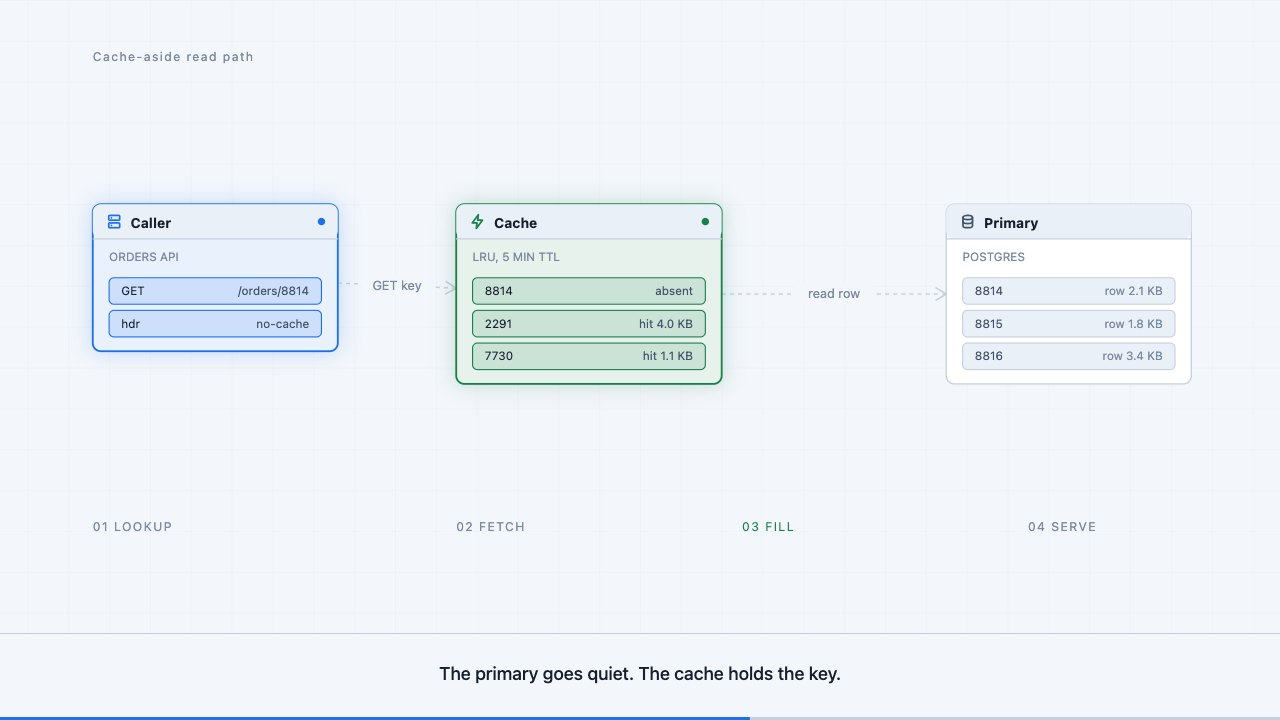
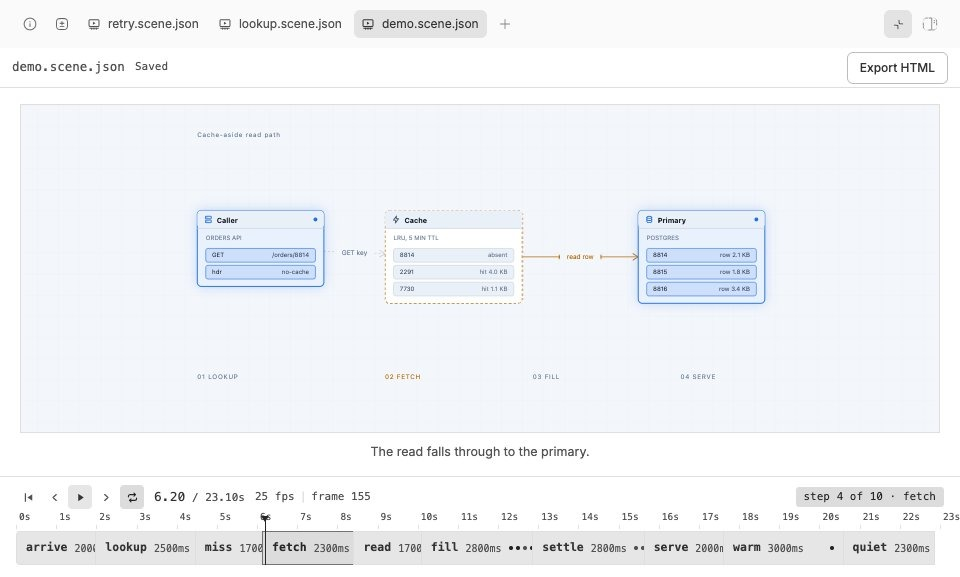
docs: align repository with plugin standard

diff --git a/skills/animation/SKILL.md b/skills/animation/SKILL.md
@@ -28,19 +28,19 @@ BB surfaces:
 Follow these nine steps in order. They produce a good animation without any design judgement, and the validator in step 9 catches what you cannot see.
 
 1. **Write the story as 6 to 10 captions.** One sentence each, 10 words or fewer (12 is the limit). Read together, they explain the thing to someone who has never seen it. Captions are shown under the stage as narration, so they are the script. **If the user asked for a length, write one caption per 2.5 seconds**: 12 captions for 30 seconds.
-2. **Leave `"look"` out of your first draft.** The look is the scene's whole character: palette, type, corners, backdrop. The validator assigns one to each scene in step 9, so that different scenes look different. Set exactly the one it names. Only choose a look yourself when the user asks for one by name, and never write colours.
+2. **Leave `"look"` out of your first draft.** The look is the scene's whole character: palette, type, corners, backdrop. In step 9, the validator suggests one from the scene's title; it does not edit the file. Set exactly the one it names. Only choose a look yourself when the user asks for one by name, and never write colours.
 3. **Pick 3 to 6 boxes.** One `node` per thing in the story. More than 6 means the story is two animations.
    - Give every box an `"icon"` from the list below.
    - A person or a device is an **actor**: add `"variant": "actor"`, which draws a circle with the icon and the name under it. An actor has no `rows` and no `subtitle`.
    - Give each other box one or two rows of **fixed facts**: a name, a limit, a setting. Never a status such as `pending`, `verified` or `done`: text cannot change between steps, so a status is wrong for most of the run. Show change with states, not with text.
 4. **Choose the layout from the shape of the story**, using the table below, and copy its coordinates. A chain is a row. One thing in the middle talking to several is a hub. A loop is a ring. Do not put everything in a row by habit.
-5. **Hide what arrives later.** Every box the first caption does not need gets `"state": "hidden"`. Reveal it with `"state": "idle"` or `"active"` in the step whose caption introduces it. Hidden parts rise into place when shown. Edges need no hiding: an edge appears in the step that first lights it, and stays afterwards as a trace of the conversation.
+5. **Hide what arrives later.** Every box the first caption does not need gets `"state": "hidden"`. Reveal it with `"state": "idle"` or `"active"` in the step whose caption introduces it. Hidden parts arrive in the selected look's style. Edges need no hiding: an edge appears in the step that first lights it, and stays afterwards as a trace of the conversation.
 6. **Write one step per caption.** Light the one or two parts the caption is about, and **set an edge `"flowing"` whenever something passes between two boxes**: the moving packets are what make it an animation. When an edge flows into a box, set that box `"active"` in the same step, so the arrival shows. Any two boxes can be joined, not only neighbours. Switch off what the previous step lit: set its edges back to `"idle"`. **Every step must change something the viewer can see**; a step that only changes the caption is dead air, so merge it into its neighbour. Take `duration` from the table below.
 7. **Add `focus`** to steps that are about one or two boxes: `"focus": ["queue", "worker"]`. The stage zooms to them. If the step lights an edge, name the boxes at both ends of it. Leave `focus` off the first step, any step that reveals parts, and the last step.
 8. **End calm.** In the last step every edge is `"idle"`, the box that holds the result stays `"active"`, and there is no `focus`.
 9. **Validate, fix, repeat.** Run `animation_validate` (or `bb animation validate <path>`). If the user asked for a length, pass it as `targetSeconds` (`--seconds` on the CLI). Apply every design note exactly as written, then validate again. **Never delete an edge or a box to clear a note**: that deletes part of the story. Stop when it says `design notes: none`. Then put the `::scene` line it gives you in your reply.
 
-**Looks.** One is assigned to your scene by the validator; set it as `"stage": { ..., "look": "paper" }`.
+**Looks.** The validator suggests one for an unstyled scene; apply it as `"stage": { ..., "look": "paper" }`.
 
 | Look | What it looks like |
 | --- | --- |
@@ -97,7 +97,7 @@ Times are **integer milliseconds**. Never frame indices, never floats.
 {
   "version": 1,
   "stage": { "width": 1200, "height": 640, "fps": 25 },
-  "parts": { "<id>": { "type": "node" | "edge" | "label" | "shape", ... } },
+  "parts": { "<id>": { "type": "node" | "edge" | "label" | "shape" | "html", ... } },
   "steps": [ { "id": "...", "duration": 800, "caption": "...", "set": { ... } } ]
 }
 ```
@@ -107,15 +107,15 @@ Times are **integer milliseconds**. Never frame indices, never floats.
 | Field | Notes |
 | --- | --- |
 | `width`, `height` | Clamped to 16..8192. The stage scales to fit the pane, so these set the aspect ratio and the coordinate system, not the pixel size. |
-| `look` | The scene's visual character, by name (see the looks table in the recipe). Sets the palette, type, corners, backdrop and how parts arrive. Use the one the validator assigns; do not write colours. |
+| `look` | The scene's visual character, by name (see the looks table in the recipe). Sets the palette, type, corners, backdrop and how parts arrive. Use the one the validator suggests; do not write colours. |
 | `fps` | Only affects frame snapping and the readout. Use 25 unless you have a reason. Whole-millisecond frame rates: 10, 20, 25, 50. |
-| `background` | Optional override. Omit it and the stage uses `stage.theme.bg`, or the fixed dark fallback palette when there is no theme -- usually what you want. |
+| `background` | Optional override. Omit it and the stage uses the selected look's background, with `stage.theme.bg` taking precedence. Without a look, it uses the default slate palette. |
 
 1200x640 is a good default. Landscape, room for a header row and a bottom rail.
 
 ### parts
 
-Part ids are the keys. All four types share `label`, `tone`, and `state` (their *baseline*, before any step runs).
+Part ids are the keys. All five types share `label`, `tone`, and `state` (their *baseline*, before any step runs).
 
 **`node`** -- the workhorse. A titled card with an optional subtitle and key/value rows.
 
@@ -198,7 +198,7 @@ Three things about `html` parts that will otherwise cost you a build:
 
 Keys naming a stage token (`bg`, `surface`, `surfaceRaised`, `border`, `borderStrong`, `text`, `textMuted`, `textFaint`, `accent`, `success`, `warning`, `error`, `purple`) override that token. Keys of the form `--some-name` are emitted as extra custom properties, which is how a project carries its own vocabulary into the stage. Anything else is dropped.
 
-Values, not a theme *name*: no renderer then needs a theme registry, and the extension stays neutral about whose product this is. The cost is that editing a theme in the app does not reach existing documents until they are restamped.
+`stage.look` supplies the base style; `stage.theme` stores colour overrides as values. Editing a product theme outside the scene does not update existing documents until their overrides are restamped.
 
 **Write markup against token names, not literal hex.** `var(--scene-border)` rather than `#383838` means switching palettes is a one-field edit with nothing to redraw. Reserve literal colours for things that genuinely are fixed -- macOS traffic lights.
 
@@ -271,7 +271,7 @@ This BB plugin does **not** ship the Nimbalyst `.tsx` compiler. Author `html` or
 
 `neutral` `accent` `data` `success` `warning` `error` `muted`
 
-They map to stage tokens (from `stage.theme`, or the fixed dark fallback): accent is blue, data purple, success green, warning amber, error red, neutral/muted a faint grey. **Assign them semantically and keep the meaning fixed for the whole animation** -- if amber means "under review" in step 4 it cannot mean "slow" in step 7.
+They map to the selected look's stage tokens, with `stage.theme` overriding individual colours. In the default slate look, accent is blue, data purple, success green, warning amber, error red, and neutral/muted a faint grey. Other looks use different palettes. **Assign tones semantically and keep the meaning fixed for the whole animation** -- if `warning` means "under review" in step 4 it cannot mean "slow" in step 7.
 
 ### states
 
@@ -325,12 +325,13 @@ Leave the gap wide enough for what the edge carries: ~40px for a bare edge with 
 The editor rewrites the file on save with a fixed key order. **Hand-write it in canonical order or your first save will reformat the whole file and bury the real edit in the diff.**
 
 - Root: `version`, `stage`, `parts`, `steps`
-- `stage`: `width`, `height`, `fps`, `look`, `background`
+- `stage`: `width`, `height`, `fps`, `look`, `background`, `theme`
 - `parts`: **sorted alphabetically by id**. Within a part: `type`, `label`, `tone`, `state`, then
   - node: `x`, `y`, `w`, `h`, `icon`, `variant`, `subtitle`, `rows`
   - edge: `from`, `to`, `text`, `packets`
   - label: `x`, `y`, `text`, `align`, `caps`, `size`
   - shape: `x`, `y`, `w`, `h`, `shape`, `text`
+  - html: `x`, `y`, `w`, `h`, `component`, `props`, `subParts`, `build`, `htmlFile`, `html`, `vars`
 - `steps`: **document order** -- it is the animation. Within a step: `id`, `duration`, `caption`, `focus`, `set`. `set` keys sorted alphabetically; each assignment `state` then `tone`.
 - Two-space indent, one trailing newline.
 
@@ -341,8 +342,8 @@ Unknown keys are preserved and written after the known ones in sorted order, so 
 Design around these; they are not bugs to work around.
 
 - **No text changes.** No part's `label`, `text`, `subtitle`, or `rows` can differ between steps. A counter that ticks `36 -> 24 -> 12` is impossible. Show quantity with shapes going `hidden`, and write static captions that stay true for the whole run (`"CLAIMED IN ORDER"`, not `"16 REMAINING"`).
-- **Parts do not travel.** `x`/`y` are fixed, so nothing moves from one place to another. The motion you get is built in, and you do not script it: a part rises into place when it stops being `hidden`, parts changed by the same step start a beat apart from left to right, a lit node glows, packets run along a flowing edge, and the camera glides to each step's `focus`.
-- **No font sizes**, apart from one heading: a label with `"size": "title"` is 24px. Other labels are 12px, node titles 13px, rows and subtitles 11px.
+- **Parts do not travel.** `x`/`y` are fixed. Motion is built in: a revealed part arrives in the look's style, changes start in reading order, active nodes use the look's highlighting, packets run along flowing edges, and the camera glides to each step's `focus`.
+- **No per-part font-size fields.** A label with `"size": "title"` gets the look's heading style. Looks set the type sizes for cards and labels; HTML parts can use inline styles.
 - **No z-index.** Alphabetical ids, as above.
 - **No per-step easing or delay.** Timings are fixed: 320ms for a colour change, 460ms for a part to arrive, 720ms for a camera move.
 
@@ -390,7 +391,7 @@ If the user gave you a style reference image, match its *vocabulary* -- caps mic
 
 ## Exporting
 
-`animation_export_html` (or `bb animation export <path>`) writes a `.scene.json` out as a self-contained HTML file that plays and loops on its own, with no external references. Point it at a path; it does not need the file open in an editor.
+`animation_export_html` (or `bb animation export <path>`) writes a `.scene.json` out as a self-contained HTML file that plays and loops on its own. The renderer, styles, playback script and local HTML partials are included; remote HTTPS images named in your markup remain remote. Point it at a path; it does not need the file open in an editor.
 
 ```
 animation_export_html { filePath: "docs/cache.scene.json" }
@@ -401,7 +402,7 @@ Pass `outputPath` to put it somewhere else; a relative path resolves the same wa
 
 **There is no GIF or MP4 export in this BB plugin.** If the destination cannot run HTML, say so and offer the standalone HTML anyway, or a screenshot of one step. Do not pretend a GIF tool exists.
 
-The editor preview and the HTML export use the palette in `stage.theme`, or a fixed dark fallback when the document names none. They agree by construction.
+The editor preview and the HTML export use `stage.look`, with `stage.theme` overriding individual colours. Without a look, they use the default slate style. They share the renderer and stage CSS.
 
 ### Showing it live inside BB
 

diff --git a/README.md b/README.md
@@ -18,11 +18,14 @@ Play it in BB, embed it in chat, or export one HTML page to share.
 
 <br>
 
-<img src="screenshots/animation/retry-fail.jpg" alt="An exported scene in the blueprint look, zoomed to a worker and a store: the write between them fails in red, with the caption 'The write fails, so the job is never acknowledged' under the stage" width="900">
+<img src="screenshots/animation/retry-editor.jpg" alt="BB's Animation editor showing a failed write between a worker and a store in the blueprint look, with narration, playback controls and the step strip below the stage" width="900">
 
 </div>
 
 <br>
+
+> [!NOTE]
+> The screenshots are real BB captures populated with fictional demo data.
 
 ## The problem
 
@@ -60,9 +63,9 @@ boundary to retime it. <kbd>Space</kbd> plays, <kbd>⌘S</kbd> saves, and
 
 ### 🎥 Motion and narration
 
-Parts rise in when revealed, changes sweep left to right, and `focus` zooms
-the stage to the boxes a step is about. Each step's caption shows under the
-stage as narration. None of it is scripted.
+Parts arrive in the selected look's style, changes start in reading order,
+and `focus` zooms the stage to the boxes a step is about. Each step's caption
+shows under the stage as narration. None of it is scripted.
 
 </td>
 </tr>
@@ -101,7 +104,7 @@ the CLI, or an agent tool.
 ### 📄 Plain JSON, agent-ready
 
 Parts plus an ordered list of steps, saved in a fixed key order so diffs stay
-small. The bundled skill gives agents an eight-step recipe, a layout grid and
+small. The bundled skill gives agents a nine-step recipe, layout grids and
 a worked example to copy.
 
 </td>
@@ -167,29 +170,37 @@ flowchart LR
   X --> H["looping .html"]
 ```
 
-- **States, not keyframes.** A step assigns a `state` and a `tone` to parts,
-  and a 320 ms CSS transition interpolates. States are cumulative, so a step
-  only lists what changes.
-- **Motion comes from the renderer.** Showing a hidden part makes it rise into
-  place, parts changed by one step start a beat apart in reading order, and a
-  step's `focus` moves the camera. The file says what is true; it never says
-  how to move.
+- **States drive motion.** Each step changes a part's `state` or `tone`, and
+  CSS transitions interpolate. States are cumulative. Revealed parts arrive
+  in the selected look's style, changes start in reading order, and `focus`
+  moves the camera.
 - **Edges route themselves.** Neighbours get a straight line. An edge that
   skips a box arcs round it, and a request and its reply run in separate
   lanes.
-- **A look is a name, not a palette.** `stage.look` picks the colours, type,
-  corners, backdrop and arrival style together. The validator assigns one to
-  each scene from its title, so scenes made the same way do not look the same.
-- **One parser everywhere.** The editor, CLI, agent tools and export all use
-  the same parser. It repairs near-misses with a warning. Errors block saving
-  and export.
-- **Canonical saves.** The editor writes a fixed key order, so saving an
-  unchanged document gives identical bytes.
-- **Same render inside and outside BB.** Export uses the editor's renderer and
-  stage CSS, with the `stage.theme` palette or a fixed dark fallback.
-- **What it will not do.** It has no GIF or MP4 export, parts cannot travel
-  from one place to another, and text cannot change between steps. There are
-  no font sizes beyond one title style for the heading.
+- **Looks set the style.** `stage.look` picks the colours, type, corners,
+  backdrop and arrival style together. For an unstyled scene, design notes
+  suggest a look from its title. You apply the suggestion to the file;
+  validation never changes it. `stage.theme` can override individual colours.
+- **One parser and stable saves.** The editor, CLI, agent tools and export
+  share a parser. It repairs near-misses with a warning; errors block saving
+  and export. Saves use a fixed key order so unchanged content keeps the same
+  bytes.
+- **Same render inside and outside BB.** Export uses the editor's renderer,
+  stage CSS and selected look. Individual theme colours override the look;
+  scenes without a look use the default slate style.
+
+<details>
+<summary><b>Compatibility and limits</b></summary>
+
+Existing `.anim.json` files, `::animation` embeds and Nimbalyst `anim-*` /
+`--anim-*` tokens still work. New files use `.scene.json`, `::scene` and
+`--scene-*`.
+
+HTML is the shareable output; GIF and MP4 export are unavailable. Parts keep
+their positions and text between steps. The format offers named looks and a
+title style rather than individual font-size controls.
+
+</details>
 
 ## Safe by default
 
@@ -206,9 +217,9 @@ flowchart LR
   `htmlFile` must be relative and stay inside the workspace. Outside a
   workspace, the limit is the directory the CLI ran in, or the scene's own
   folder.
-- 🌐 **No network calls.** The plugin reads and writes files through BB and
-  nothing else. An exported page loads remote content only if your own markup
-  names an `https:` image.
+- 🌐 **No service connection required.** The plugin reads and writes files
+  through BB. Your own HTML parts can load remote `https:` images, including
+  images named in inline styles.
 - 📝 **Export only replaces its own output.** Exporting again overwrites an
   earlier Animation export. Any other file at the output path, including the
   scene itself, is left alone and the export stops with an error.
@@ -218,6 +229,7 @@ flowchart LR
 ```sh
 bb animation new docs/cache-read.scene.json         # create a starter scene
 bb animation validate docs/cache-read.scene.json    # problems, plus design notes with fixes
+bb animation validate docs/cache-read.scene.json --seconds 30
 bb animation export docs/cache-read.scene.json      # write docs/cache-read.html
 bb animation export docs/cache-read.scene.json --out site/cache.html --json
 ```
@@ -236,11 +248,13 @@ workspace when there is no current directory.
 
 </details>
 
-**Agent tools:** `animation_validate({ filePath })` and
+**Agent tools:** `animation_validate({ filePath, targetSeconds? })` and
 `animation_export_html({ filePath, outputPath? })`. The bundled
 [skill](skills/animation/SKILL.md) teaches agents the part types, states,
 geometry and canonical key order, and when a static diagram is the better
-choice.
+choice. When you ask for a length, agents pass it as `targetSeconds` (a
+positive number up to 600) and apply the validator's design notes before
+embedding the scene.
 
 ## Development
 
@@ -268,11 +282,18 @@ screenshots/     README images
 ```
 
 **Tests** are Vitest unit tests for the parser, serialiser and timeline, the
-scene renderer, the camera and every design note, the HTML sanitiser and the
-host path helpers. They also check that the shipped samples, the starter and
-the skill's worked example pass the validator with no notes. A fake plugin host
+scene renderer, looks, icons, actor geometry, edge routing, the camera and
+design notes, the HTML sanitiser and host path helpers. They also check that
+the shipped samples, the starter and the skill's worked example pass the
+validator with no notes. A fake plugin host
 also drives the CLI and agent tools end to end: create, validate, export,
 refusing parse errors, and `.anim.json` files.
+
+For README screenshots, open the shipped samples in BB and crop to the file
+preview pane. The hero shows the `fail` step in `samples/retry.scene.json`;
+the gallery shows the paper hub in `samples/lookup.scene.json` and the
+daylight row in `samples/demo.scene.json`. Keep all captures on fictional
+demo data.
 
 `PLUGIN_OVERVIEW.md` is the store listing. Keep it in step with
 `bb.description` in `package.json`.

diff --git a/PLUGIN_OVERVIEW.md b/PLUGIN_OVERVIEW.md
@@ -4,7 +4,7 @@ Play technical diagrams as a sequence of beats, not a keyframe dope sheet.
 
 - An **Animation editor** for `*.scene.json` files: stage on top, step strip below.
 - Scrub the playhead, drag a step boundary to retime it, and click a part to quote it into chat.
-- Motion without scripting: parts rise in when revealed, changes sweep left to right, and a step's `focus` zooms the stage to the boxes it is about.
+- Motion without scripting: parts arrive in the selected look's style, changes start in reading order, and a step's `focus` zooms the stage to the boxes it is about.
 - Captions shown as narration in the editor, the chat embed and the export.
 - Ten looks, from `blueprint` to `paper` to `neon`, plus icons, actors and layouts for a row, a hub or a ring, so scenes do not all look alike.
 - Design notes from `animation_validate`, each with the exact fix, so an agent that cannot see the scene can still get it right.
@@ -21,4 +21,4 @@ The format is compatible with Nimbalyst Animation documents. Existing `.anim.jso
 
 ## For agents
 
-The bundled skill gives an eight-step recipe, a layout grid and a worked example to copy, then covers part types, states, geometry and canonical key order. Run `bb animation validate` or `animation_validate` after every edit and apply its design notes until there are none.
+The bundled skill gives a nine-step recipe, layout grids and a worked example to copy, then covers part types, states, geometry and canonical key order. Run `bb animation validate` or `animation_validate` after every edit and apply its design notes until there are none. Pass the requested length with `--seconds` or `targetSeconds` when you want a duration check. Validation suggests fixes without changing the file.

diff --git a/CHANGELOG.md b/CHANGELOG.md
@@ -16,6 +16,8 @@ All notable changes to Animation are documented here. The format follows
 - Actors: `"variant": "actor"` draws a node as a circle holding its icon, for
   the people and devices in a story.
 - Layouts for a hub and a ring in the skill, alongside the row and two rows.
+- A README hero capture of the Animation editor, with playback controls and
+  the step strip, using the shipped retry sample.
 - Design notes for style: a scene with no look is assigned one from its title,
   boxes with no icons get one suggested each, people are suggested as actors,
   and a row of boxes whose edges form a hub or a loop gets the positions for
@@ -30,6 +32,11 @@ All notable changes to Animation are documented here. The format follows
   apart along their lines.
 - A vertical edge may carry text wider than its gap, since the text runs
   sideways.
+- Repository documentation follows the nine-step authoring recipe and
+  explains look suggestions, theme overrides, duration checks and format
+  compatibility.
+- README gallery screenshots are captured in BB's Animation editor using
+  fictional sample data.
 
 ### Fixed
 
